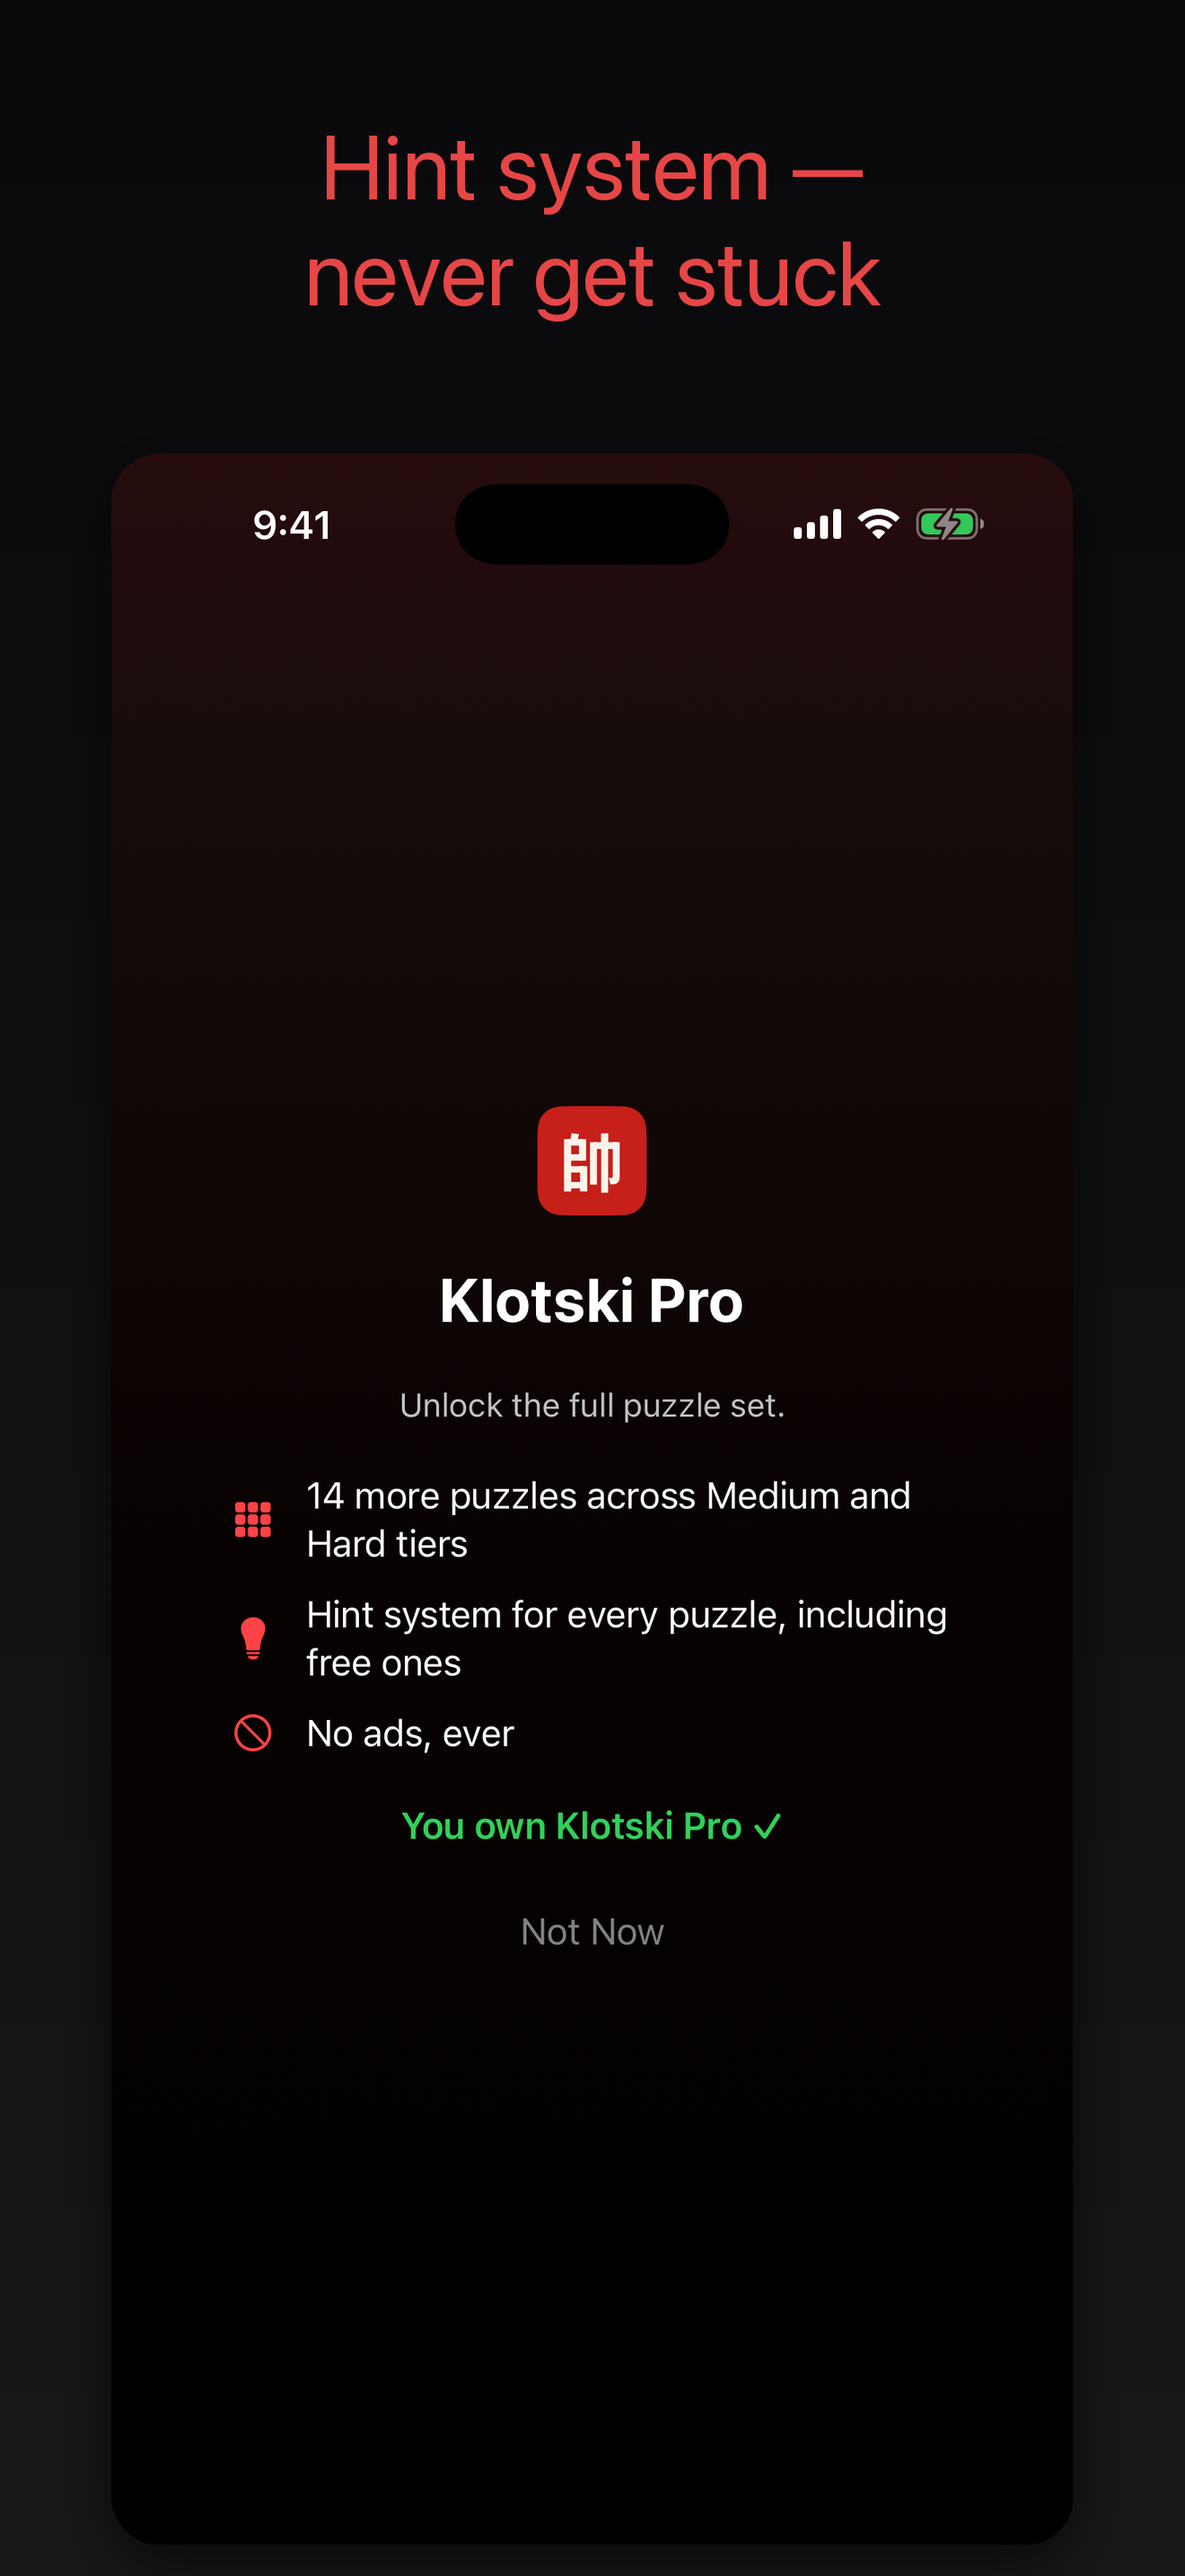
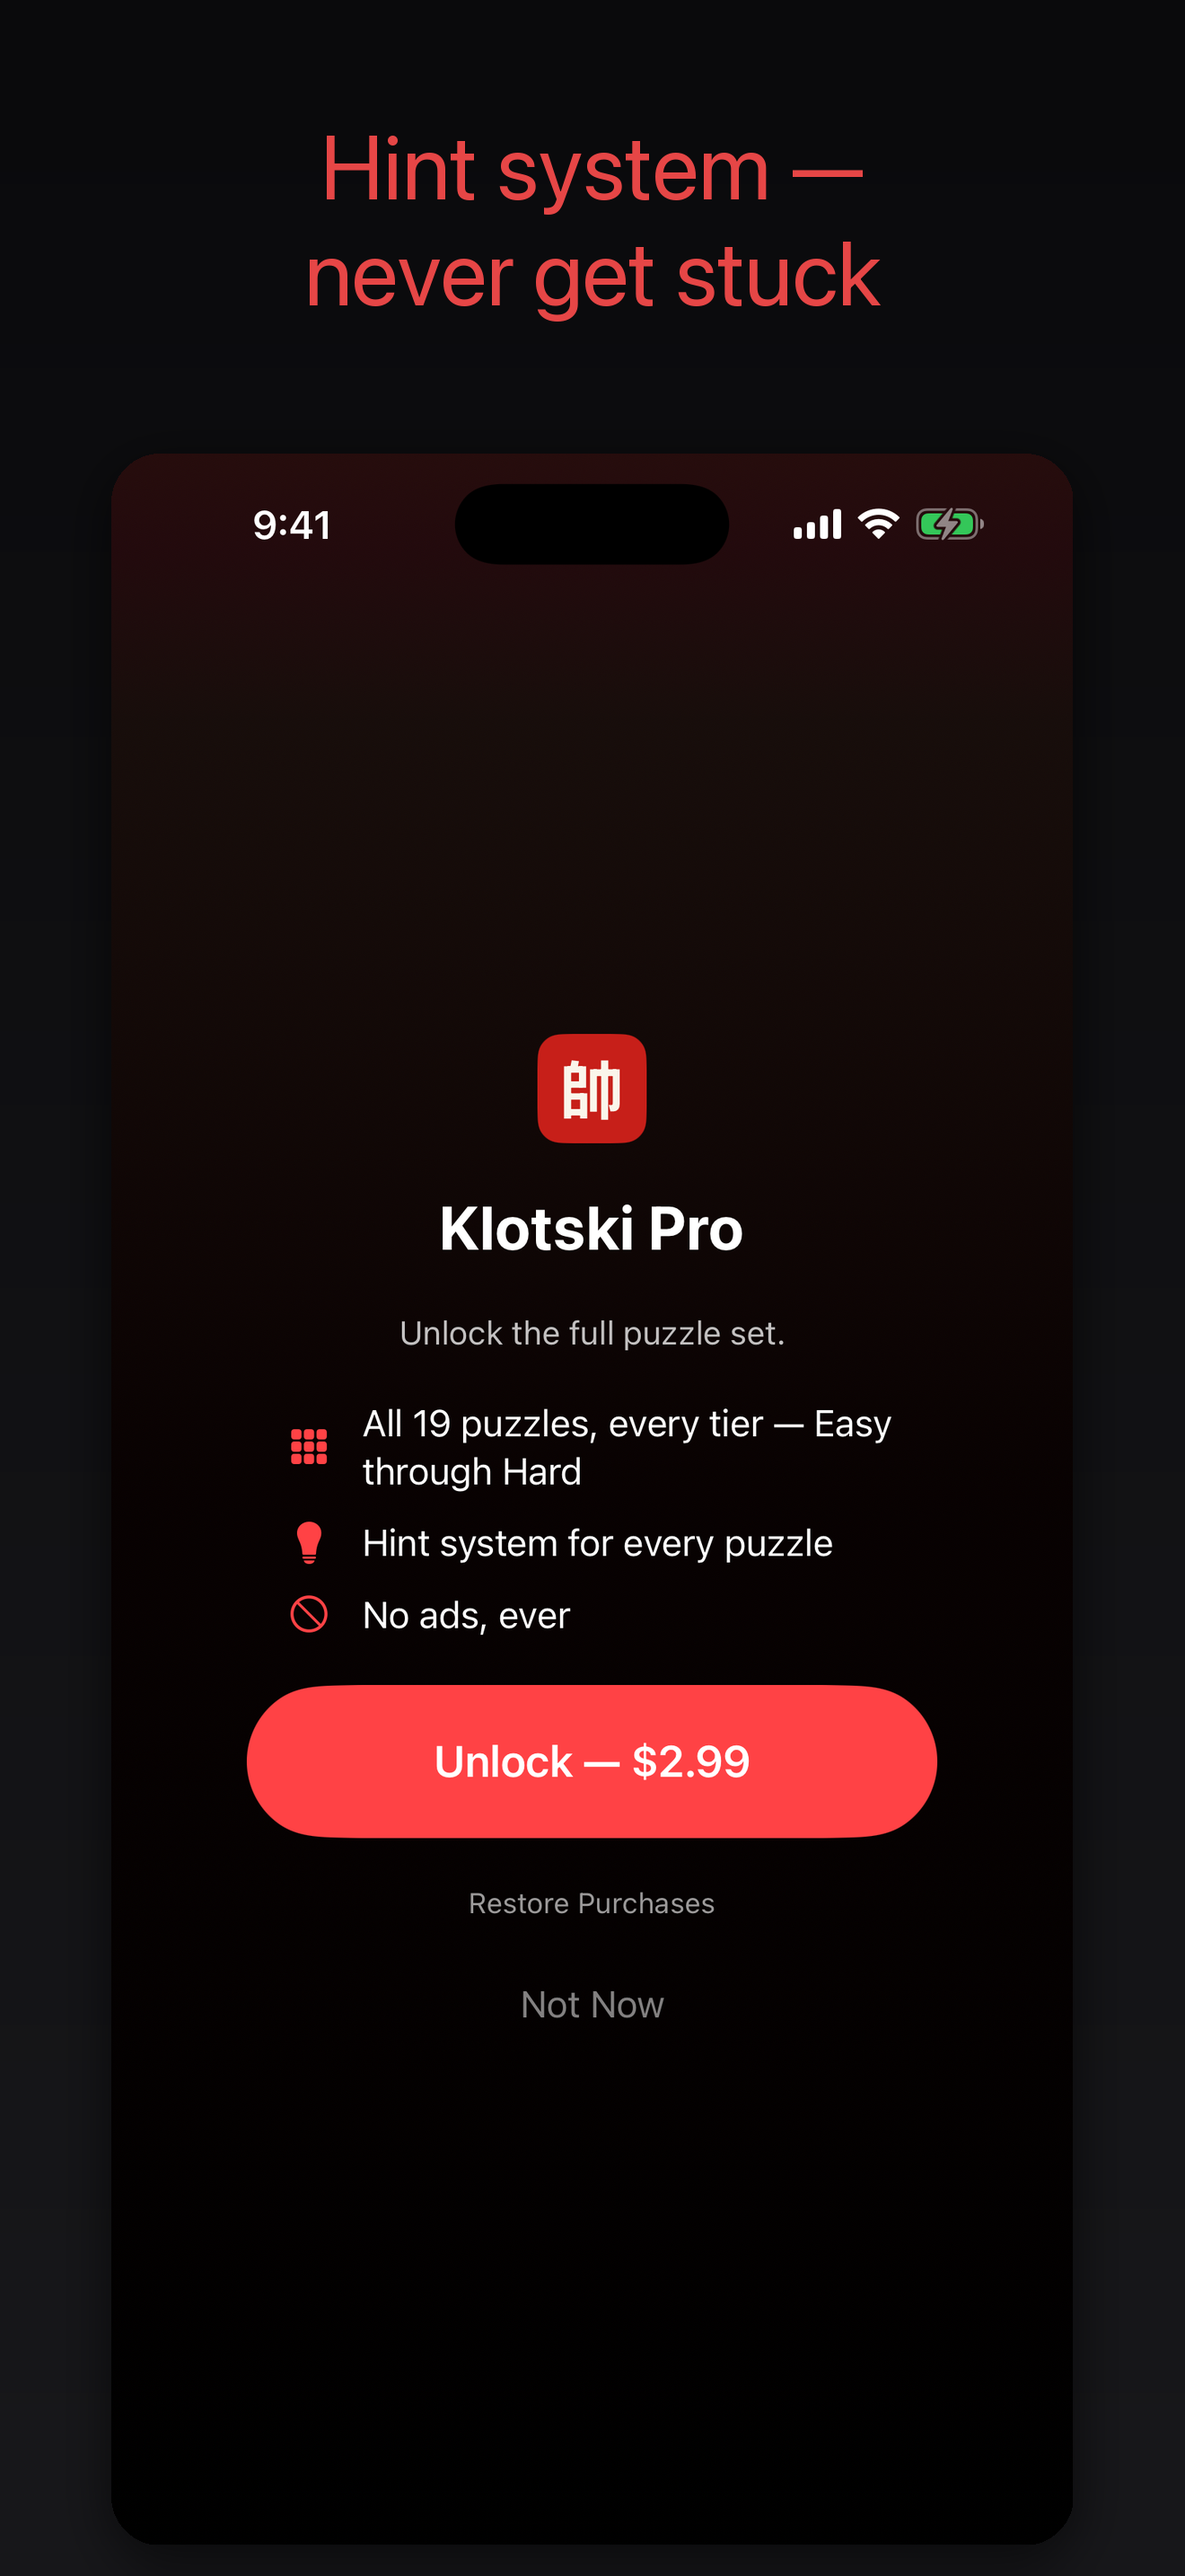
Fix missing paywall fallback UI + recapture stale screenshots
UpgradeView had no fallback when product stayed nil (StoreKit reliably
fails to resolve in the simulator) — it showed a permanent spinner rather
than the real button. Added the same DEBUG-only screenshot fallback
pattern used in OAnQuan/Makruk. Also fixed capture_shots.py (deterministic
erase + settle wait) and recaptured all 10 screenshots.

Claude-Session: https://claude.ai/code/session_01WRvSDUBWBn7jn1uQ1ji8Go

Changed region(s): [[0.1864, 0.4034, 0.8076, 0.8068]]

diff --git a/Klotski/Views/UpgradeView.swift b/Klotski/Views/UpgradeView.swift
@@ -34,12 +34,25 @@ struct UpgradeView: View {
                             } else if let product = purchases.product {
                                 Text(String(format: L("upgrade.buy"), product.displayPrice))
                                     .font(.title3.bold()).frame(maxWidth: 260).padding()
+                            } else if isCaptureScreenshotFallback {
+                                // App Store screenshot capture only: local StoreKit testing
+                                // consistently fails to load a real Product via a bare
+                                // `simctl launch` (no Xcode test host attached) — same known
+                                // limitation as Janggi/Dara/Makruk/OAnQuan. Unlike those
+                                // apps this view had no fallback UI at all when `product`
+                                // stays nil, so the paywall screenshot was stuck on a
+                                // permanent spinner regardless of wait time (found via
+                                // vision QA, 2026-08-24). Renders the real, shipping button
+                                // copy/price instead — never shown to a real user, gated on
+                                // both #if DEBUG and the KL_CAPTURE screenshot launch arg.
+                                Text(String(format: L("upgrade.buy"), "$2.99"))
+                                    .font(.title3.bold()).frame(maxWidth: 260).padding()
                             } else {
                                 ProgressView().tint(.white)
                             }
                         }
                         .buttonStyle(.borderedProminent).tint(.red)
-                        .disabled(purchases.isPurchasing || purchases.product == nil)
+                        .disabled(purchases.isPurchasing || (purchases.product == nil && !isCaptureScreenshotFallback))
 
                         Button(L("upgrade.restore")) { Task { await purchases.restorePurchases() } }
                             .font(.footnote).foregroundStyle(.white.opacity(0.6))
@@ -56,6 +69,14 @@ struct UpgradeView: View {
             }
             .toolbar(.hidden, for: .navigationBar)
         }
+    }
+
+    private var isCaptureScreenshotFallback: Bool {
+        #if DEBUG
+        ProcessInfo.processInfo.environment["KL_CAPTURE"] == "upgrade"
+        #else
+        false
+        #endif
     }
 
     private func featureRow(_ icon: String, _ text: String) -> some View {

diff --git a/capture_shots.py b/capture_shots.py
@@ -109,12 +109,18 @@ def main():
     print(f"==> device {name}")
     APP = build_app()
     subprocess.run(["xcrun", "simctl", "shutdown", DEVICE], capture_output=True)
+    subprocess.run(["xcrun", "simctl", "erase", DEVICE], capture_output=True)
     subprocess.run(["xcrun", "simctl", "boot", DEVICE], capture_output=True)
     sh("xcrun", "simctl", "bootstatus", DEVICE, "-b")
     subprocess.run(["xcrun", "simctl", "status_bar", DEVICE, "override", "--time", "9:41",
                     "--batteryLevel", "100", "--batteryState", "charged",
                     "--cellularBars", "4", "--wifiBars", "3"], capture_output=True)
     sh("xcrun", "simctl", "install", DEVICE, str(APP))
+    # A freshly-erased simulator can surface a first-boot system notification
+    # banner ("Ready for Apple Intelligence") a few seconds in, which then
+    # auto-dismisses on its own — wait it out before capturing so it doesn't
+    # land in a screenshot (found via vision QA, 2026-08-24).
+    time.sleep(8)
     raw = APP_DIR / "screenshots" / "_raw.png"
     for lang, shots in SHOTS.items():
         out = APP_DIR / "screenshots" / "final" / lang
@@ -125,7 +131,11 @@ def main():
             subprocess.run(["xcrun", "simctl", "launch", DEVICE, BUNDLE],
                            env=dict(os.environ, SIMCTL_CHILD_KL_CAPTURE=cap, SIMCTL_CHILD_KL_LANG=lang),
                            capture_output=True)
-            time.sleep(4)
+            # "upgrade" needs to outlast PurchaseManager.loadProduct()'s 10s StoreKit
+            # timeout so productLoadFailed has actually resolved by screenshot time —
+            # otherwise this shot non-deterministically catches the loading spinner
+            # instead of the real button (found via vision QA, 2026-08-24).
+            time.sleep(12 if cap == "upgrade" else 4)
             sh("xcrun", "simctl", "io", DEVICE, "screenshot", str(raw))
             compose(raw, headline, out / f"{shotname}.png", is_cjk=is_cjk)
     raw.unlink(missing_ok=True)

diff --git a/CLAUDE.md b/CLAUDE.md
@@ -7,6 +7,22 @@ that first for the full history (why this puzzle, the incumbent teardown showing
 mislabeled/miscategorized 776-rating leader, naming/ASO research, and the
 ChineseChess Pro Classic cross-sell rationale).
 
+**2026-08-24 (later same day) — vision QA found the v1.0.4 submission's own paywall
+screenshot is stale AND the UpgradeView had a separate real bug of its own.**
+`screenshots/final/{en,zh-Hans}/04-upgrade.png` predated today's DEBUG isPro fix and
+showed "You own Klotski Pro ✓" instead of a buy button — same stale-screenshot class as
+BauCua. Recapturing (after adding `simctl erase` + an 8s settle wait to
+`capture_shots.py`, same fix as elsewhere) surfaced a second, previously-hidden bug:
+unlike OAnQuan/Makruk, `Views/UpgradeView.swift` had **no fallback UI at all** when
+`purchases.product` stays nil — it showed a permanent spinner forever (StoreKit
+reliably fails to resolve a product under a bare `simctl launch`, a known limitation
+across this portfolio), not just a slow-to-resolve one. Added the same DEBUG-only
+`isCaptureScreenshotFallback` pattern used in OAnQuan/Makruk to render the real
+"Unlock — $2.99" button copy when `KL_CAPTURE == "upgrade"` and product load has
+failed. Recaptured and verified both locales now show the correct button.
+**Not yet pushed to ASC** — v1.0.4 is `WAITING_FOR_REVIEW`; whether its screenshots can
+still be updated mid-review needs the user's call.
+
 **2026-08-24 — v1.0.4 (build 7), DEBUG bug fix, SUBMITTED.** Found by the new portfolio-wide
 `~/asc-tools/compliance_gate.py`: `PurchaseManager.updateEntitlementStatus()`'s DEBUG branch
 had a bare `isPro = true` (previously — wrongly — documented in the 2026-08-09 review below
